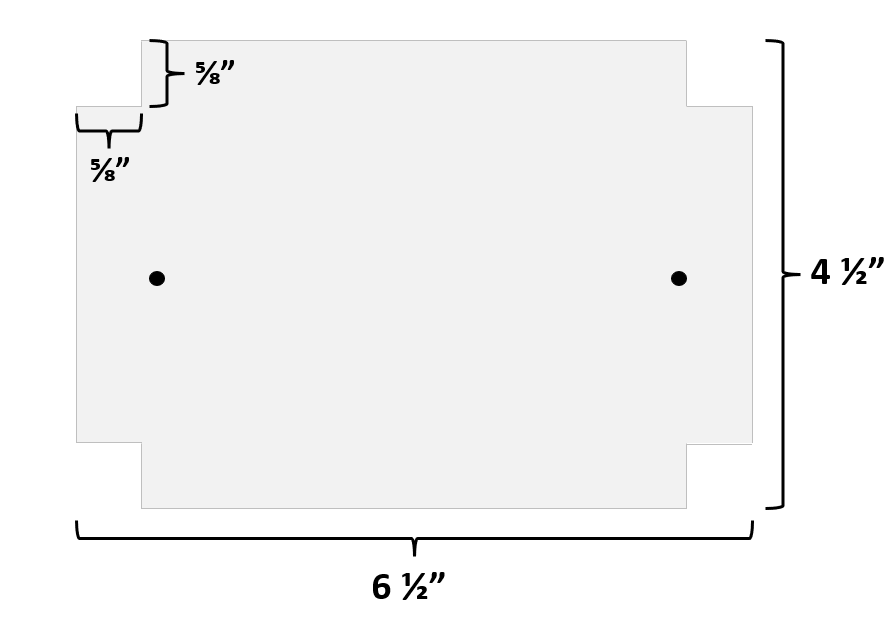
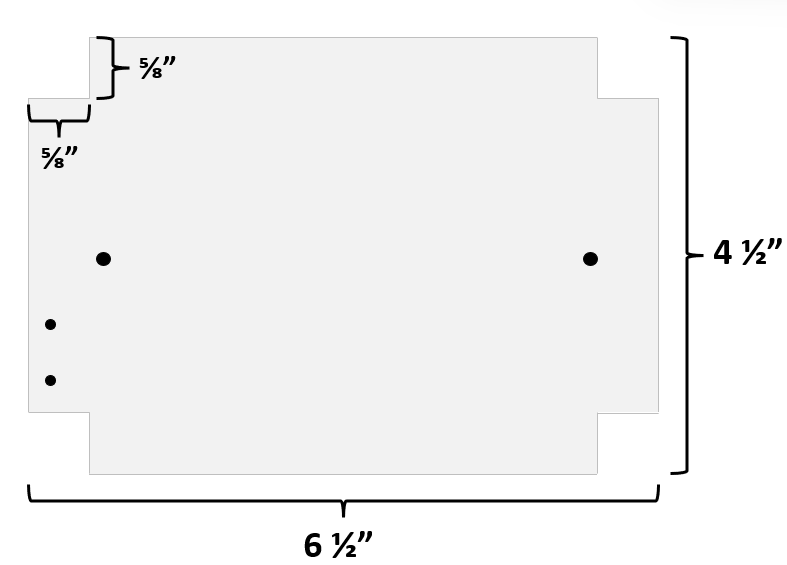
updated Controller_assembly

diff --git a/Assembly/Controller_Assembly.md b/Assembly/Controller_Assembly.md
@@ -39,11 +39,17 @@ Side D has a rectangular opening to fit a [Micro SD Card Extender](https://www.a
   
 ## Step 2: Cut an 1/8" acrylic insert to fit the bottom of the enclosure
 
-The controller enclosure needs an acrylic base to anchor the Arduino and Micro SD Card Extender to the enclosure which will prevent the components from moving around and potentially causing loose wires. Two screws are provided with the enclosure which can be used to anchor the acrylic to the enclosure. 
+The controller enclosure needs an acrylic base to anchor the Arduino and Micro SD Card Extender to the enclosure which will prevent the components from moving around and potentially causing loose wires. Two screws are provided with the enclosure which can be used to anchor the acrylic to the enclosure.  
 
-<p align="center"><img src="Photos/controlleracrylic.png" width="700">  
+<p align="center"><img src="Photos/controllerscrews.png" width="600">  
 
-<p align="center"><img src="Photos/controllerscrews.png" width="600">    
+The acrylic also needs two holes for [metal standoffs](https://www.amazon.com/Sutemribor-Female-Spacer-Standoff-Assortment/dp/B075K3QBMX/ref=asc_df_B075K3QBMX/?tag=hyprod-20&linkCode=df0&hvadid=198091685647&hvpos=&hvnetw=g&hvrand=7745884508979205915&hvpone=&hvptwo=&hvqmt=&hvdev=c&hvdvcmdl=&hvlocint=&hvlocphy=9008553&hvtargid=pla-389869518233&psc=1) that will support the Micro SD port on the SD Card extender. Cut a small piece of acrylic that's wider than the SD port and will fit a hole for one screw on each side (use the screws in the metal standoffs kit). After drilling holes for the screws, glue the Micro SD Port on the SD card extender to the acrylic (double sided tape would also work). Line up the SD Port with the hole cut for the rectangular plug on Side D of the enclosure. Drill two holes into the base acrylic piece so the standoffs can be screwed into the base to support the Micro SD port.  
+
+<p align="center"><img src="Photos/SD_port_setup.png" width="600"> 
+ 
+<p align="center"><img src="Photos/controlleracrylic.png" width="700"> 
+
+  
 
 
 
@@ -54,7 +60,9 @@ Orient the TFT so the serial number on the side of the screen is on the left. Br
 
 On the back of the TFT board, place a small amount of solder on the IM1, IM2, and IM3 pads (boxed in red). **DO NOT PUT SOLDER ON THE IM0 PAD. THE SCREEN WILL NOT WORK IF THE IM0 IS SOLDERED** 
 
-<p align="center"><img src="Photos/TFTsolder.png" width="700">   
+<p align="center"><img src="Photos/TFTsolder.png" width="700">  
+
+Adafruit offers directions on how to [test your TFT screen](https://learn.adafruit.com/adafruit-2-4-color-tft-touchscreen-breakout/spi-wiring-test).  
 
 ## Step 4: Solder the temperature sensors to a 4 pin connector  
 All four [temperature probes](https://www.amazon.com/gp/product/B00EU5U182/ref=ppx_yo_dt_b_search_asin_title?ie=UTF8&psc=1&pldnSite=1) are wired together to a single **Male** [4 pin connector](https://www.adafruit.com/product/744) with the connections sealed in aquarium epoxy.  
@@ -70,16 +78,28 @@ Repeat these steps for as many temperature probe bundles are needed. One bundle 
 <p align="center"><img src="Photos/tempprobeepoxy.png" width="600">
 
 ## Step 5: Stack the Arduino, CBASS-R Shield, and TFT Display with the SD Card Extender  
-The Arduino, CBASS-R Shield, and TFT Display all stack on top of eachother with the stacking pins on the bottom of each piece. Start off with the Arduino and stack the CBASS-R shield into the Arduino. Next, put the SD card extender into the SD card port of the CBASS_R shield and fold the exess ribbion on top of the CBASS-R Shield. Finally, stack the TFT display on top of the CBASS-R to complete the controller sandwhich. 
+The Arduino, CBASS-R Shield, and TFT Display all stack on top of each other with the stacking pins on the bottom of each piece. Start off with the Arduino and stack the CBASS-R shield into the Arduino. Next, put the SD card extender into the SD card port of the CBASS_R shield and fold the excess ribbon on top of the CBASS-R Shield. Finally, stack the TFT display on top of the CBASS-R to complete the controller "sandwich".  
 
-## Step 6: Connect 9V and USB and add a rubber stopper  
-Feed the 9V and USB cable through the PG16 gland on Side B of the enclosure. Plug the cords into their respective ports on the Arduino. Take a rubber stopper and cut it in half width wise (if it does not have a center hole, you will also need to drill one). Cut lengthwise down the stopper so it will "roll out flat". Wrap the stopper around the power cords and push it into the PG16 gland. Then tighten the gland around the stopper to ensure a waterproof connection. 
+<p align="center"><img src="Photos/Arduino_sandwich.png" width="600">
 
-## Step 7: Connect 4pin wires for temperature probes into the CBASS-R Shield 
+## Step 6: Connect 4pin wires for temperature probes into the CBASS-R Shield 
+First, make sure the standoffs for the Micro SD Card port on secured into the acrylic and the acrylic base is screwed into the enclosure.
 
-Clip the white cord off the **Female** 4 pin connector and feed it into the PG7 gland on Side A of the enclosure. Using fine tip forcepts, put the wires into the terminal blocks on the CBASS-R shield and tighten the top screws. Gently tug on the wires to ensure they are securely placed.  
+Next, clip the white cord off the **Female** 4 pin connector and feed it into the PG7 gland on Side A of the enclosure. Using fine tip forceps, put the wires into the terminal blocks on the CBASS-R shield and tighten the top screws. Gently tug on the wires to ensure they are securely placed.    
 
-## Step 8: Test! 
+**NEED SCREW TERMINAL NAMES ON CBASS-R SHIELD AND WHERE EACH WIRE CONNECTS**
+
+## Step 7: Assemble controller and add a rubber stopper for the power cables connection
+Feed the 9V and USB cable through the PG16 gland on Side B of the enclosure. Plug the cords into their respective ports on the Arduino. Align the Arduino sandwich with the 9SD connection opening and push the 9SD port into the oval hole with the adapter. Finally, screw the SD Card Extender port into the metal standoffs.
+
+
+Take a rubber stopper and cut it in half width wise (if it does not have a center hole, you will also need to drill one or scrape out some of the inside). Cut lengthwise down the stopper so it will "roll out flat". Wrap the stopper around the power cords and push it into the PG16 gland.Then tighten the gland around the stopper to ensure a waterproof connection.  
+
+<p align="center"><img src="Photos/stopper_and_power.png" width="800"> 
+
+## Step 8: Screw on the top and Test! 
+
+Congrats, you have built a controller! See the [scripts folder](https://github.com/kparker96/CBASS_Manual/tree/master/Scripts) to run the code to make sure your CBASS controller is working properly! 
 
 
 
